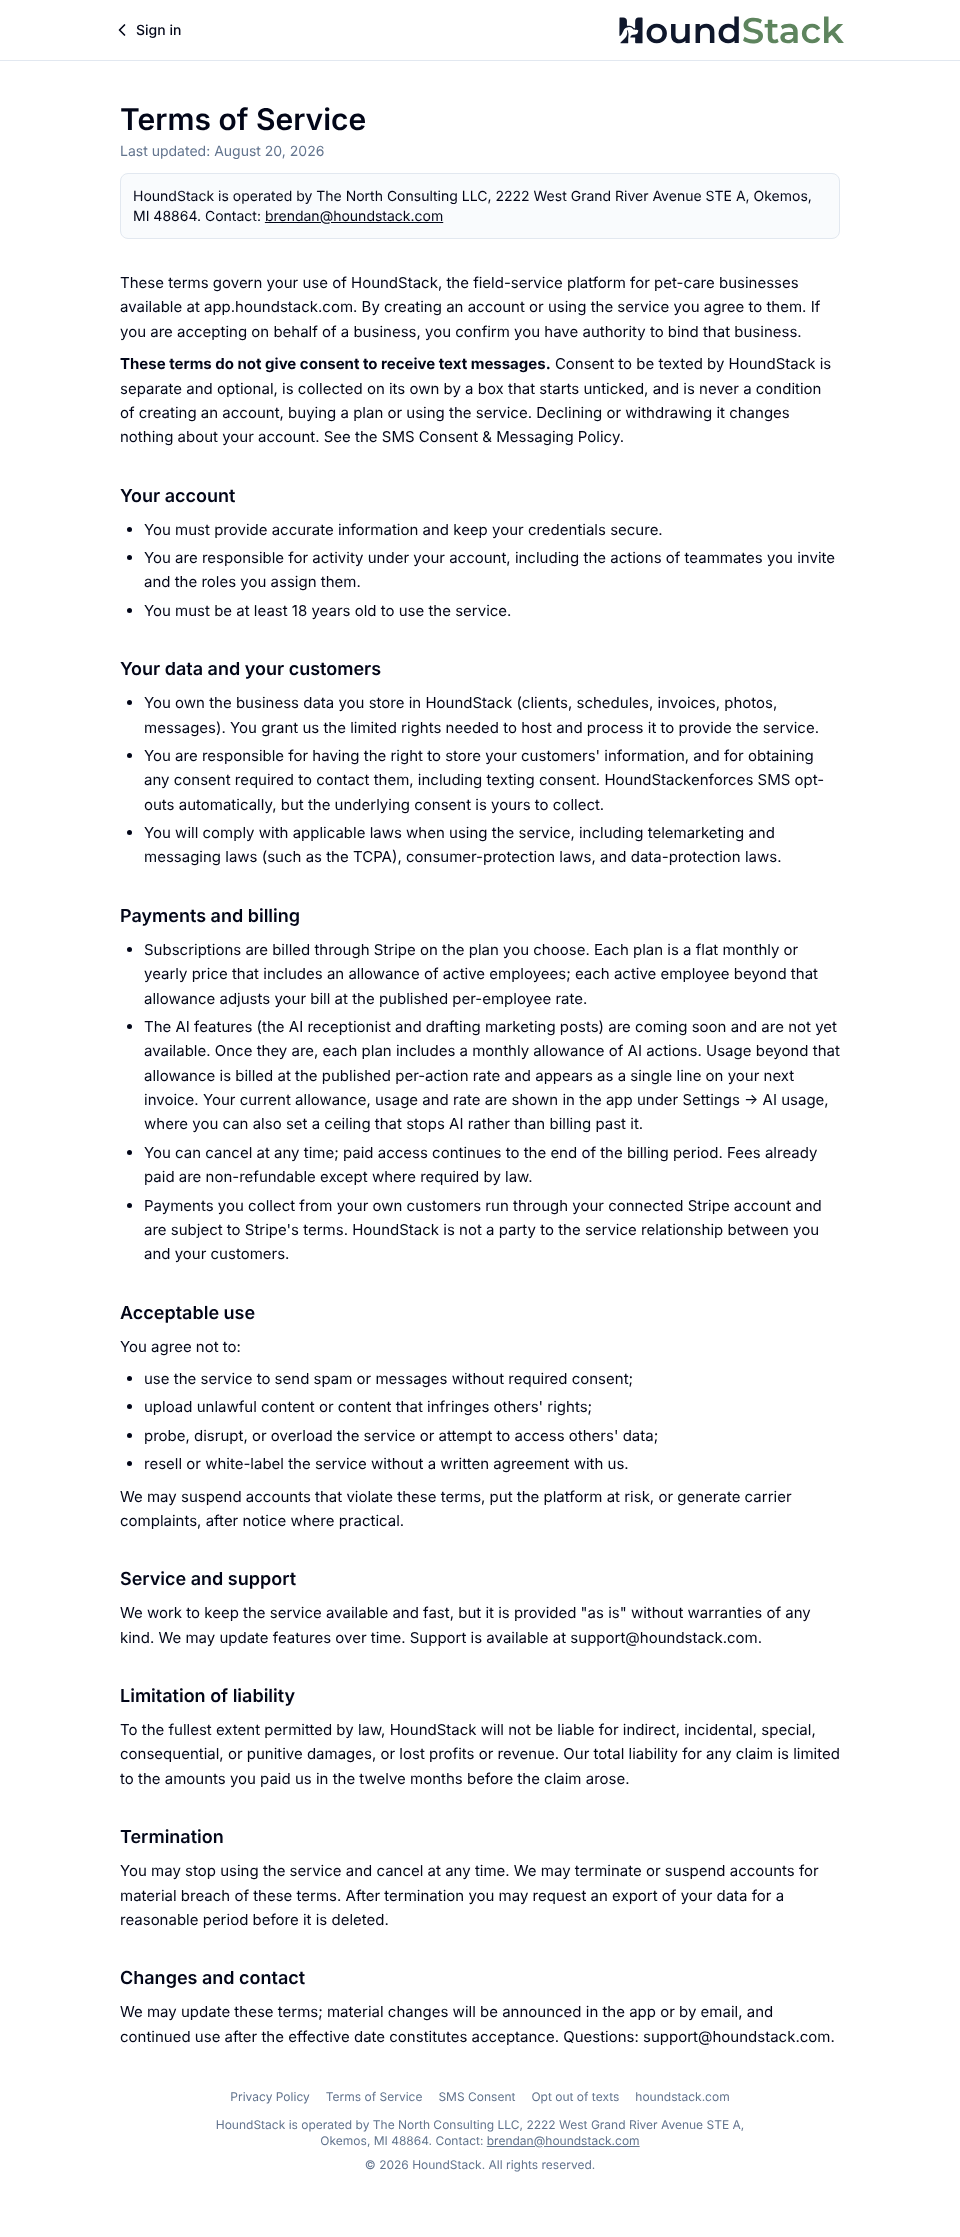
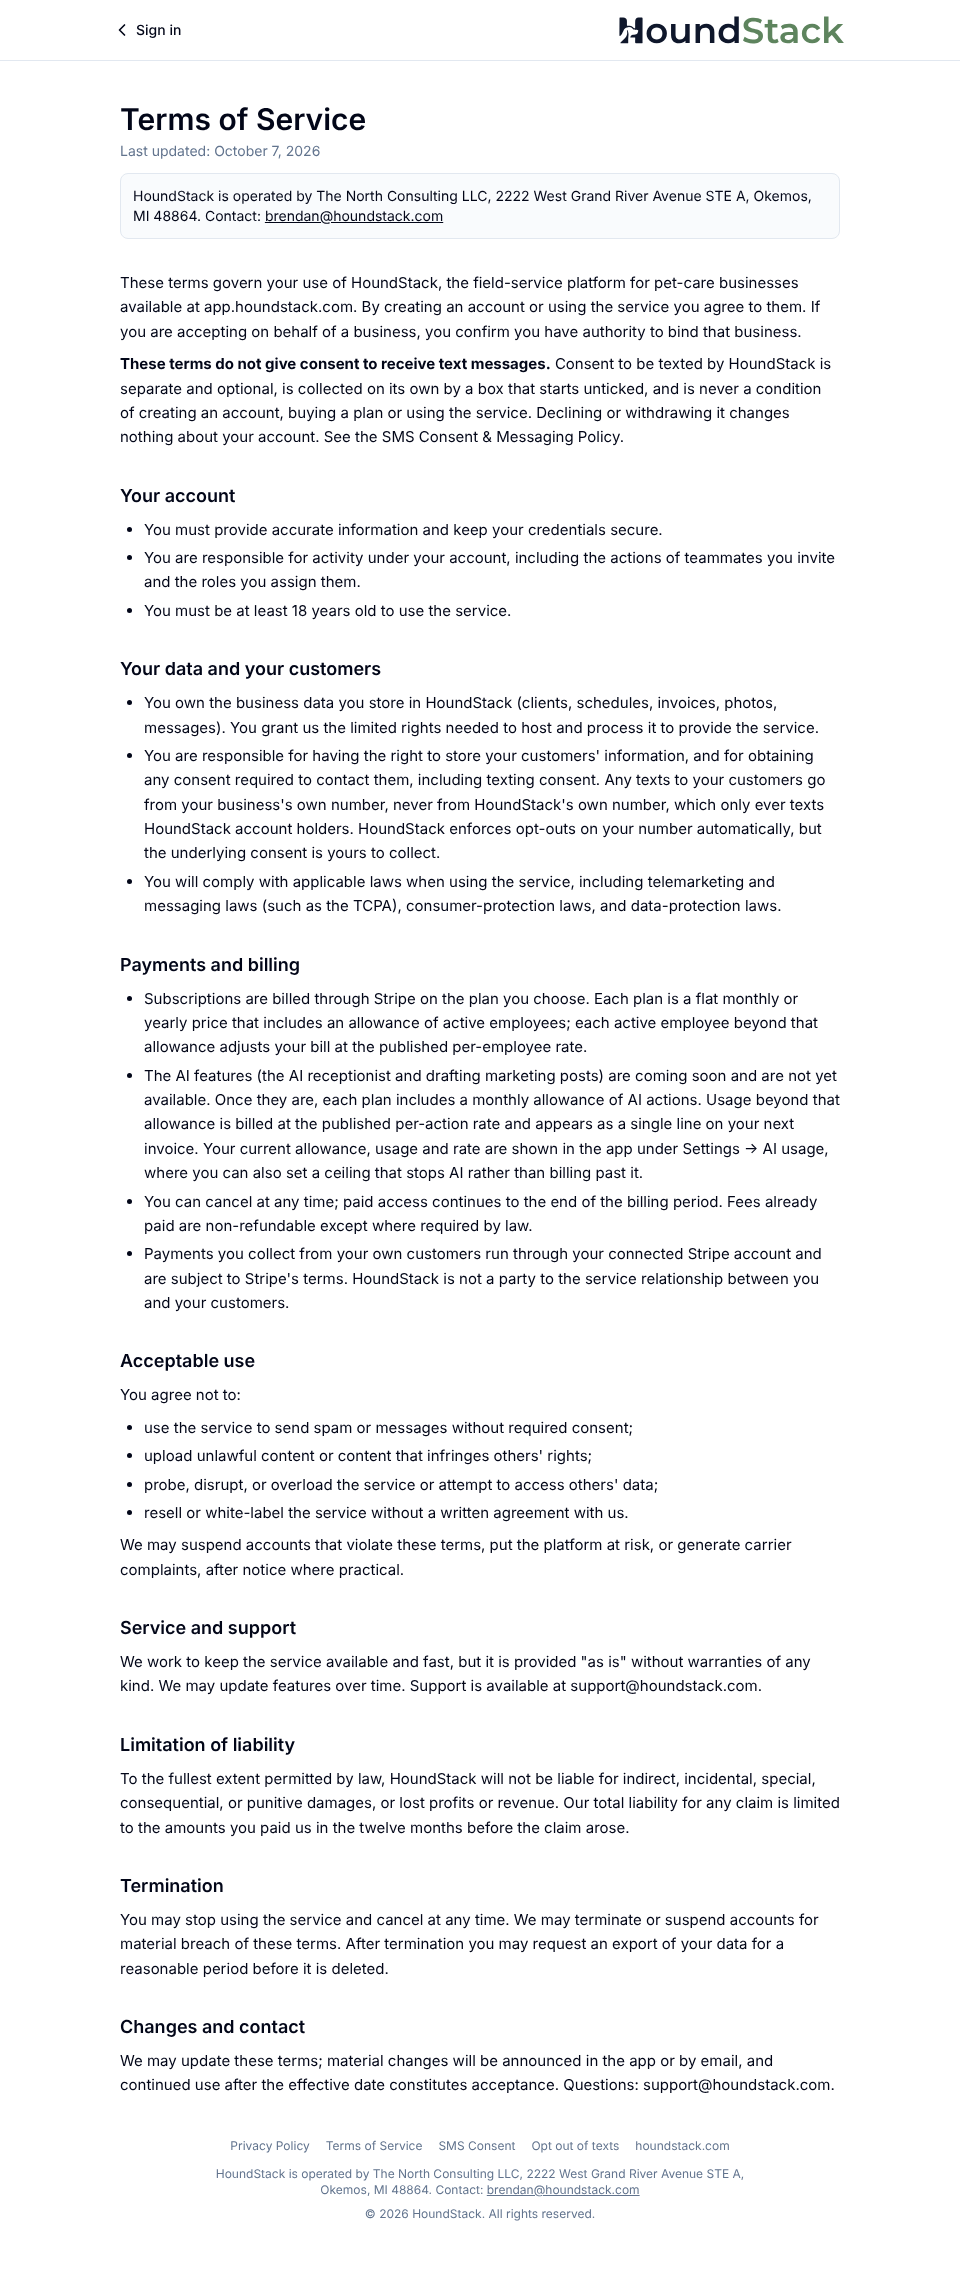
Privacy and Terms say whose number a business's texts come from
Two lines a strict reviewer could read against the account-holders-only
filing:

- Privacy said that when a business turns on the AI receptionist, "messages
  and calls to its number" go to the AI provider. It now says that business's
  own number, marks the receptionist coming soon, and says it never uses
  HoundStack's number, which only ever texts account holders.
- Terms said "HoundStack enforces SMS opt-outs automatically" in the section
  about a business's own customers. It now says those texts go from the
  business's own number and never from HoundStack's.

Screenshots 7 and 8 are re-captured. Terms' last-updated date moves to
October 7.

Claude-Session: https://claude.ai/code/session_01WHCtARJyDNhr1vEJjgP34P

diff --git a/src/routes/legal.terms.tsx b/src/routes/legal.terms.tsx
@@ -15,7 +15,7 @@ export const Route = createFileRoute("/legal/terms")({
 
 function TermsPage() {
   return (
-    <LegalShell title="Terms of Service" updated="August 20, 2026">
+    <LegalShell title="Terms of Service" updated="October 7, 2026">
       <section>
         <p>
           These terms govern your use of {APP_NAME}, the field-service platform for pet-care
@@ -48,19 +48,20 @@ function TermsPage() {
         <h2>Your data and your customers</h2>
         <ul>
           <li>
-            You own the business data you store in {APP_NAME} (clients, schedules, invoices,
-            photos, messages). You grant us the limited rights needed to host and process it to
-            provide the service.
+            You own the business data you store in {APP_NAME} (clients, schedules, invoices, photos,
+            messages). You grant us the limited rights needed to host and process it to provide the
+            service.
           </li>
           <li>
             You are responsible for having the right to store your customers' information, and for
-            obtaining any consent required to contact them, including texting consent. {APP_NAME}
-            enforces SMS opt-outs automatically, but the underlying consent is yours to collect.
+            obtaining any consent required to contact them, including texting consent. Any texts to
+            your customers go from your business&apos;s own number, never from {APP_NAME}&apos;s own
+            number, which only ever texts {APP_NAME} account holders. {APP_NAME} enforces opt-outs
+            on your number automatically, but the underlying consent is yours to collect.
           </li>
           <li>
-            You will comply with applicable laws when using the service, including telemarketing
-            and messaging laws (such as the TCPA), consumer-protection laws, and data-protection
-            laws.
+            You will comply with applicable laws when using the service, including telemarketing and
+            messaging laws (such as the TCPA), consumer-protection laws, and data-protection laws.
           </li>
         </ul>
       </section>
@@ -75,20 +76,20 @@ function TermsPage() {
           </li>
           <li>
             The AI features (the AI receptionist and drafting marketing posts) are coming soon and
-            are not yet available. Once they are, each plan includes a monthly
-            allowance of AI actions. Usage beyond that allowance is billed at the
-            published per-action rate and appears as a single line on your next invoice. Your
-            current allowance, usage and rate are shown in the app under Settings → AI usage,
-            where you can also set a ceiling that stops AI rather than billing past it.
+            are not yet available. Once they are, each plan includes a monthly allowance of AI
+            actions. Usage beyond that allowance is billed at the published per-action rate and
+            appears as a single line on your next invoice. Your current allowance, usage and rate
+            are shown in the app under Settings → AI usage, where you can also set a ceiling that
+            stops AI rather than billing past it.
           </li>
           <li>
-            You can cancel at any time; paid access continues to the end of the billing period.
-            Fees already paid are non-refundable except where required by law.
+            You can cancel at any time; paid access continues to the end of the billing period. Fees
+            already paid are non-refundable except where required by law.
           </li>
           <li>
             Payments you collect from your own customers run through your connected Stripe account
-            and are subject to Stripe's terms. {APP_NAME} is not a party to the service
-            relationship between you and your customers.
+            and are subject to Stripe's terms. {APP_NAME} is not a party to the service relationship
+            between you and your customers.
           </li>
         </ul>
       </section>

diff --git a/src/routes/legal.privacy.tsx b/src/routes/legal.privacy.tsx
@@ -132,9 +132,10 @@ function PrivacyPage() {
           <li>Cloud hosting and infrastructure providers</li>
         </ul>
         <p>
-          When a business turns on its AI receptionist, the text of messages and calls to its
-          number, with the recent conversation, is sent to the AI provider to write the reply. The
-          receptionist says it is an automated assistant.
+          When a business turns on its AI receptionist (coming soon), the text of messages and calls
+          to that business&apos;s own number, with the recent conversation, is sent to the AI
+          provider to write the reply. The receptionist says it is an automated assistant. It never
+          uses {APP_NAME}&apos;s own number, which only ever texts {APP_NAME} account holders.
         </p>
         <p>
           A business can also choose to connect other services, such as its accounting software or
